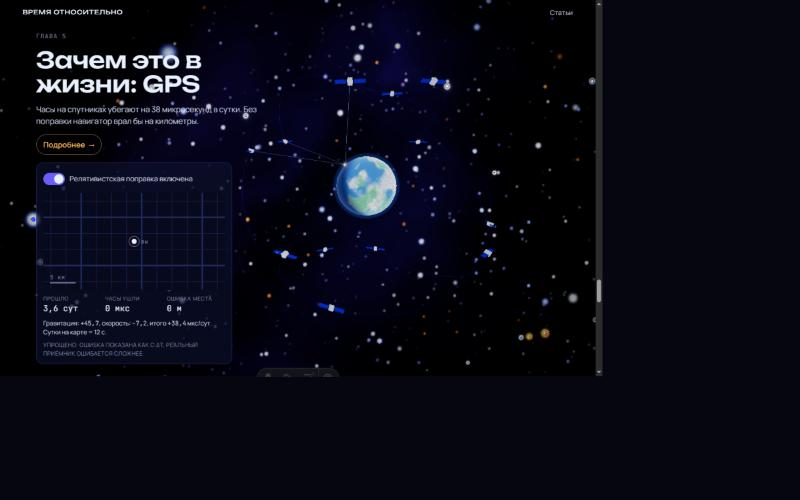
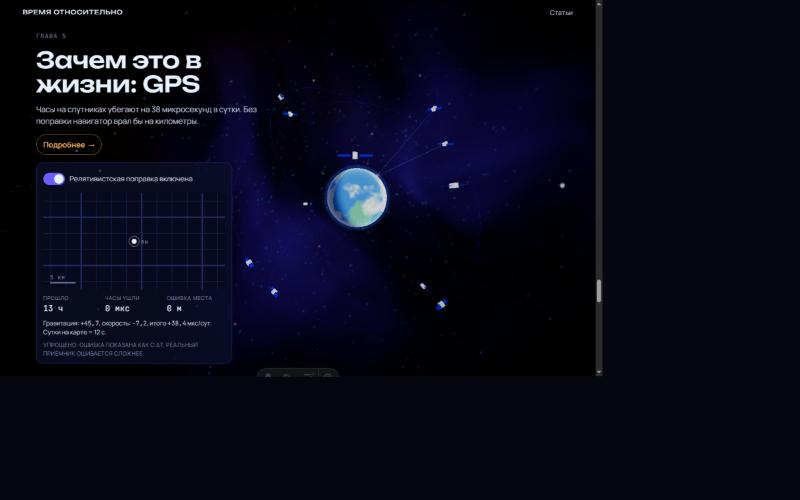
feat: переходы между главами — растворение соседних глав и поток цветной пыли
Главы видны только пока текущие: при перелёте старая гаснет на 45 % пути,
новая появляется там же (фаза перелёта cam.phase в store). Новый WarpDust:
частицы в системе камеры, в перелёте вытягиваются в штрихи, цвет переходит
от цвета покинутой главы к цвету следующей (цвета в chapters.ts).
Плотнее скопление за чёрной дырой, глаже Земля, меньше фоновой пыли.

diff --git a/src/scene/WarpDust.tsx b/src/scene/WarpDust.tsx
@@ -1,0 +1,129 @@
+import { useMemo, useRef } from 'react';
+import { useFrame } from '@react-three/fiber';
+import { AdditiveBlending, BufferAttribute, BufferGeometry, Color, Group, LineSegments, ShaderMaterial } from 'three';
+import { CHAPTERS } from '../story/chapters';
+import { storyStore, useStory, type Quality } from '../story/store';
+
+/**
+ * Космическая пыль, ведущая от главы к главе.
+ * Частицы живут в системе камеры: в удержании медленно плывут навстречу,
+ * в перелёте разгоняются и вытягиваются в штрихи. Цвет плавно переходит
+ * от цвета покинутой главы к цвету следующей.
+ */
+const COUNTS: Record<Quality, number> = { high: 900, medium: 450, low: 200 };
+const DEPTH = 60; // глубина зоны перед камерой
+const RADIUS = 16;
+
+const vert = /* glsl */ `
+attribute float aEnd;
+attribute float aSeed;
+uniform float uStretch;
+uniform float uSize;
+varying float vEnd;
+varying float vSeed;
+void main() {
+  vec3 p = position;
+  // второй конец штриха отодвигаем назад по оси движения (камера летит в -z)
+  p.z += aEnd * uStretch * (0.6 + 0.4 * aSeed);
+  vEnd = aEnd;
+  vSeed = aSeed;
+  gl_Position = projectionMatrix * modelViewMatrix * vec4(p, 1.0);
+}
+`;
+const frag = /* glsl */ `
+uniform vec3 uColor;
+uniform float uAlpha;
+varying float vEnd;
+varying float vSeed;
+void main() {
+  float a = (1.0 - vEnd) * uAlpha * (0.5 + 0.5 * vSeed);
+  gl_FragColor = vec4(uColor * (1.0 + 0.8 * vSeed), a);
+}
+`;
+
+export function WarpDust() {
+  const quality = useStory((s) => s.quality);
+  const count = COUNTS[quality];
+  const group = useRef<Group>(null);
+  const color = useMemo(() => new Color(), []);
+  const from = useMemo(() => new Color(), []);
+  const to = useMemo(() => new Color(), []);
+
+  const { geo, mat, data } = useMemo(() => {
+    // каждая частица — отрезок из двух вершин: голова (aEnd = 0) и хвост (aEnd = 1)
+    const pos = new Float32Array(count * 2 * 3);
+    const end = new Float32Array(count * 2);
+    const seed = new Float32Array(count * 2);
+    const data = new Float32Array(count * 3);
+    for (let i = 0; i < count; i++) {
+      const a = Math.random() * Math.PI * 2;
+      const r = 2 + Math.random() * RADIUS;
+      data[i * 3] = Math.cos(a) * r;
+      data[i * 3 + 1] = Math.sin(a) * r * 0.7;
+      data[i * 3 + 2] = -Math.random() * DEPTH;
+      const s = Math.random();
+      end[i * 2] = 0;
+      end[i * 2 + 1] = 1;
+      seed[i * 2] = s;
+      seed[i * 2 + 1] = s;
+    }
+    const geo = new BufferGeometry();
+    geo.setAttribute('position', new BufferAttribute(pos, 3));
+    geo.setAttribute('aEnd', new BufferAttribute(end, 1));
+    geo.setAttribute('aSeed', new BufferAttribute(seed, 1));
+    const mat = new ShaderMaterial({
+      vertexShader: vert,
+      fragmentShader: frag,
+      uniforms: { uColor: { value: new Color('#9fb4ff') }, uAlpha: { value: 0.35 }, uStretch: { value: 0.3 }, uSize: { value: 1 } },
+      transparent: true,
+      depthWrite: false,
+      blending: AdditiveBlending,
+    });
+    return { geo, mat, data };
+  }, [count]);
+
+  useFrame((state, dt) => {
+    const g = group.current;
+    if (!g) return;
+    const { cam, chapter, reducedMotion } = storyStore.getState();
+    // система пыли следует за камерой
+    g.position.copy(state.camera.position);
+    g.quaternion.copy(state.camera.quaternion);
+
+    const travel = reducedMotion ? 0 : cam.travel;
+    const speed = 2.5 + travel * 70;
+    const d = Math.min(dt, 0.05);
+    const pos = geo.getAttribute('position') as BufferAttribute;
+    const arr = pos.array as Float32Array;
+    for (let i = 0; i < count; i++) {
+      let z = data[i * 3 + 2] + speed * d;
+      if (z > 4) z -= DEPTH;
+      data[i * 3 + 2] = z;
+      const x = data[i * 3];
+      const y = data[i * 3 + 1];
+      arr[i * 6] = x;
+      arr[i * 6 + 1] = y;
+      arr[i * 6 + 2] = z;
+      arr[i * 6 + 3] = x;
+      arr[i * 6 + 4] = y;
+      arr[i * 6 + 5] = z;
+    }
+    pos.needsUpdate = true;
+
+    // цвет: от главы, которую покидаем, к той, куда летим
+    const toDef = CHAPTERS[chapter] ?? CHAPTERS[0];
+    const fromDef = CHAPTERS[Math.max(0, chapter - 1)];
+    from.set(fromDef.color);
+    to.set(toDef.color);
+    color.copy(from).lerp(to, Math.min(1, Math.max(0, cam.phase)));
+    (mat.uniforms.uColor.value as Color).copy(color);
+    mat.uniforms.uStretch.value = 0.25 + travel * 3.5;
+    mat.uniforms.uAlpha.value = 0.2 + travel * 0.4;
+  });
+
+  return (
+    <group ref={group}>
+      <primitive object={new LineSegments(geo, mat)} frustumCulled={false} />
+    </group>
+  );
+}

diff --git a/src/story/chapters.ts b/src/story/chapters.ts
@@ -21,16 +21,18 @@ export interface ChapterDef {
   hold: number;
   /** Ссылка «Подробнее» */
   article?: string;
+  /** Цвет главы: им окрашивается пыль, ведущая к ней */
+  color: string;
 }
 
 export const CHAPTERS: ChapterDef[] = [
-  { index: 0, id: 'intro',   title: 'Время относительно',        anchor: [0, 0, 0],       look: [0, 0, -60],    travel: 0, hold: 1.5 },
-  { index: 1, id: 'clocks',  title: 'Световые часы',             anchor: [14, 3, -42],    look: [14, 0, -70],   travel: 1, hold: 1.5, article: '/articles/time-dilation' },
-  { index: 2, id: 'twins',   title: 'Парадокс близнецов',        anchor: [-12, -5, -86],  look: [-12, -2, -120],travel: 1, hold: 1.5, article: '/articles/twin-paradox' },
-  { index: 3, id: 'gravity', title: 'Гравитация гнёт пространство', anchor: [10, 12, -128], look: [8, 0, -160], travel: 1, hold: 1.5, article: '/articles/curved-spacetime' },
-  { index: 4, id: 'lens',    title: 'Гравитационная линза',      anchor: [0, 0, -170],    look: [0, 0, -230],   travel: 1, hold: 1.5, article: '/articles/gravitational-lensing' },
-  { index: 5, id: 'gps',     title: 'Зачем это в жизни: GPS',    anchor: [-16, 5, -214],  look: [-14, 0, -250], travel: 1, hold: 1.5, article: '/articles/gps' },
-  { index: 6, id: 'finale',  title: 'Финал',                     anchor: [0, 26, -262],   look: [0, 0, -120],   travel: 1, hold: 1 },
+  { index: 0, id: 'intro',   title: 'Время относительно',        anchor: [0, 0, 0],       look: [0, 0, -60],    travel: 0, hold: 1.5, color: '#9fb4ff' },
+  { index: 1, id: 'clocks',  title: 'Световые часы',             anchor: [14, 3, -42],    look: [14, 0, -70],   travel: 1, hold: 1.5, article: '/articles/time-dilation', color: '#6d5dfc' },
+  { index: 2, id: 'twins',   title: 'Парадокс близнецов',        anchor: [-12, -5, -86],  look: [-12, -2, -120],travel: 1, hold: 1.5, article: '/articles/twin-paradox', color: '#4f8dff' },
+  { index: 3, id: 'gravity', title: 'Гравитация гнёт пространство', anchor: [10, 12, -128], look: [8, 0, -160], travel: 1, hold: 1.5, article: '/articles/curved-spacetime', color: '#ffb454' },
+  { index: 4, id: 'lens',    title: 'Гравитационная линза',      anchor: [0, 0, -170],    look: [0, 0, -230],   travel: 1, hold: 1.5, article: '/articles/gravitational-lensing', color: '#ffd27a' },
+  { index: 5, id: 'gps',     title: 'Зачем это в жизни: GPS',    anchor: [-16, 5, -214],  look: [-14, 0, -250], travel: 1, hold: 1.5, article: '/articles/gps', color: '#5ee0ff' },
+  { index: 6, id: 'finale',  title: 'Финал',                     anchor: [0, 26, -262],   look: [0, 0, -120],   travel: 1, hold: 1, color: '#b48cff' },
 ];
 
 /** Доля удержания, после которой текст считается полностью показанным (точка snap). */

diff --git a/src/scene/Chapters.tsx b/src/scene/Chapters.tsx
@@ -1,5 +1,7 @@
-import { Suspense, lazy, type ComponentType } from 'react';
-import { useStory } from '../story/store';
+import { Suspense, lazy, useRef, type ComponentType } from 'react';
+import { useFrame } from '@react-three/fiber';
+import { Group } from 'three';
+import { storyStore, useStory } from '../story/store';
 
 /** Ленивые группы глав. Монтируются за одну главу до входа в кадр, размонтируются после. */
 const LOADERS: Record<number, ComponentType> = {
@@ -12,6 +14,26 @@ const LOADERS: Record<number, ComponentType> = {
   6: lazy(() => import('./chapters/Finale')),
 };
 
+/** Момент перелёта, в который старая глава гаснет, а новая появляется (пыль в это время гуще всего). */
+const SWITCH = 0.45;
+
+/**
+ * Глава видна только пока она текущая: при перелёте к следующей старая исчезает
+ * на середине пути, новая появляется там же. Так соседние главы не просвечивают
+ * друг сквозь друга (например, скопление главы 4 за Землёй главы 5).
+ */
+function ChapterGate({ index, children }: { index: number; children: React.ReactNode }) {
+  const group = useRef<Group>(null);
+  useFrame(() => {
+    const g = group.current;
+    if (!g) return;
+    const { chapter, cam } = storyStore.getState();
+    const visible = (chapter === index && cam.phase >= SWITCH) || (chapter === index + 1 && cam.phase < SWITCH);
+    if (g.visible !== visible) g.visible = visible;
+  });
+  return <group ref={group}>{children}</group>;
+}
+
 export function Chapters() {
   const chapter = useStory((s) => s.chapter);
   return (
@@ -20,7 +42,9 @@ export function Chapters() {
         .filter(([i]) => Math.abs(Number(i) - chapter) <= 1)
         .map(([i, C]) => (
           <Suspense key={i} fallback={null}>
-            <C />
+            <ChapterGate index={Number(i)}>
+              <C />
+            </ChapterGate>
           </Suspense>
         ))}
     </>

diff --git a/src/story/store.ts b/src/story/store.ts
@@ -13,6 +13,8 @@ export interface CamState {
   look: { x: number; y: number; z: number };
   /** 0 в удержании, 1 в середине перелёта (для FOV и пыли) */
   travel: number;
+  /** Фаза перелёта к текущей главе: 0 в начале, 1 в конце и всё удержание */
+  phase: number;
 }
 
 /** Мутируемый объект (как cam): GSAP твинит strength, указатель пишет x/y. Не пересоздавать. */
@@ -83,7 +85,7 @@ export const storyStore = createStore<StoryState>((set, get) => ({
   maxQuality: 'high',
   reducedMotion: false,
   webgl: true,
-  cam: { t: 0, look: { x: 0, y: 0, z: -60 }, travel: 0 },
+  cam: { t: 0, look: { x: 0, y: 0, z: -60 }, travel: 0, phase: 1 },
   lens: { x: 0.64, y: 0.52, strength: 0 },
   lensMass: 0.5,
   clocksBeta: 0.6,

diff --git a/src/story/scroll.ts b/src/story/scroll.ts
@@ -103,6 +103,7 @@ export function initStory(root: HTMLElement): () => void {
       tl.to(cam.look, { x: c.look[0], y: c.look[1], z: c.look[2], duration: c.travel, ease: 'power2.inOut' }, start);
       tl.to(cam, { travel: 1, duration: c.travel / 2, ease: 'sine.in' }, start);
       tl.to(cam, { travel: 0, duration: c.travel / 2, ease: 'sine.out' }, start + c.travel / 2);
+      tl.fromTo(cam, { phase: 0 }, { phase: 1, duration: c.travel, ease: 'none' }, start);
     }
 
     if (copy) {
@@ -205,6 +206,7 @@ function initReduced(root: HTMLElement): () => void {
               cam.look.x = c.look[0];
               cam.look.y = c.look[1];
               cam.look.z = c.look[2];
+              cam.phase = 1;
               lens.strength = c.id === 'lens' ? 1 : 0;
             })
             .to(fade, { opacity: 0, duration: 0.25 });

diff --git a/src/scene/StoryCanvas.tsx b/src/scene/StoryCanvas.tsx
@@ -4,6 +4,7 @@ import { PerformanceMonitor } from '@react-three/drei';
 import { detectQuality, hasWebGL, storyStore, useStory, type Quality } from '../story/store';
 import { CameraRig } from './CameraRig';
 import { Background } from './Background';
+import { WarpDust } from './WarpDust';
 import { Chapters } from './Chapters';
 import { Effects } from './Effects';
 
@@ -68,6 +69,7 @@ export default function StoryCanvas() {
         <CameraRig />
         <Suspense fallback={null}>
           <Background />
+          <WarpDust />
           <Chapters />
         </Suspense>
         <Effects />

diff --git a/src/scene/Background.tsx b/src/scene/Background.tsx
@@ -6,9 +6,9 @@ import { storyStore, useStory, type Quality } from '../story/store';
 import { nebulaFrag, nebulaVert, starsFrag, starsVert } from './shaders';
 
 const COUNTS: Record<Quality, { far: number; dust: number }> = {
-  high: { far: 7000, dust: 3500 },
-  medium: { far: 3000, dust: 1400 },
-  low: { far: 1400, dust: 500 },
+  high: { far: 7000, dust: 2200 },
+  medium: { far: 3000, dust: 900 },
+  low: { far: 1400, dust: 350 },
 };
 
 /** Цвет звезды: холодные белые и голубые, редкие тёплые. */

diff --git a/src/scene/chapters/Lens.tsx b/src/scene/chapters/Lens.tsx
@@ -10,5 +10,5 @@ export default function Lens() {
   const look = CHAPTERS[4].look;
   const center = useMemo<[number, number, number]>(() => [look[0], look[1], look[2]], [look]);
   const spread = useMemo<[number, number, number]>(() => [24, 16, 12], []);
-  return <StarCluster center={center} spread={spread} count={2200} />;
+  return <StarCluster center={center} spread={spread} count={3200} sizeMax={6.5} />;
 }

diff --git a/src/scene/Earth.tsx b/src/scene/Earth.tsx
@@ -64,7 +64,7 @@ export function Earth({ radius = 1.8, lightDir = [0.55, 0.35, 0.75] as [number, 
   return (
     <group>
       <mesh material={mat}>
-        <sphereGeometry args={[radius, 48, 48]} />
+        <sphereGeometry args={[radius, 72, 72]} />
       </mesh>
       <mesh scale={1.08}>
         <sphereGeometry args={[radius, 32, 32]} />
